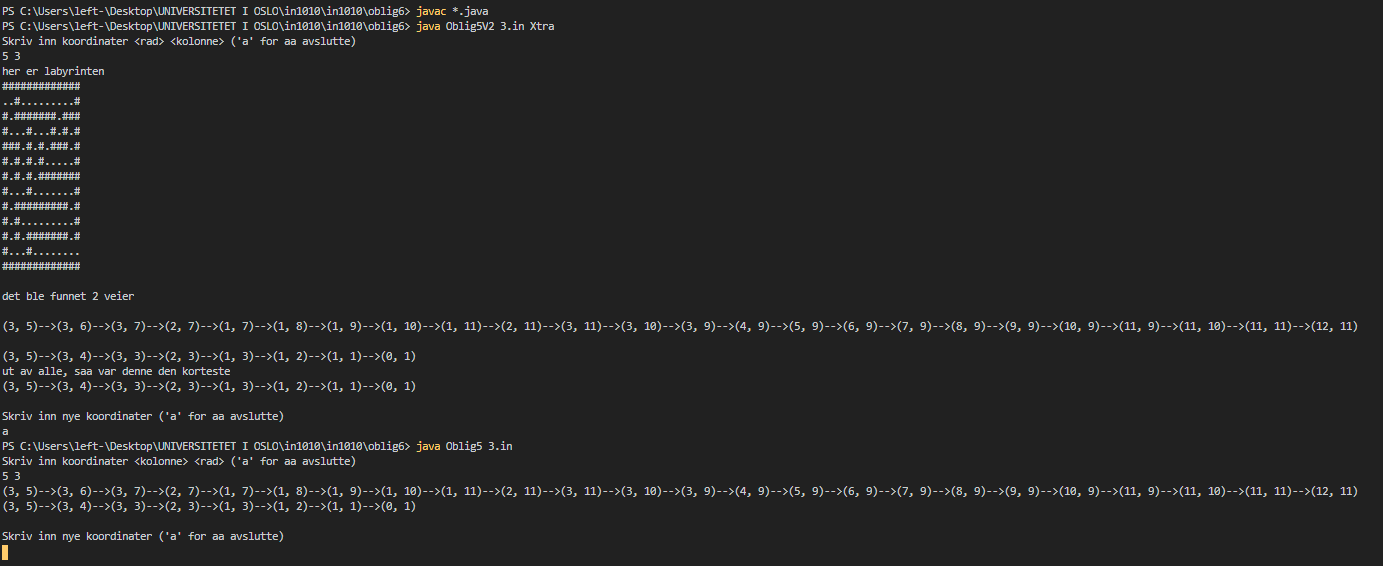
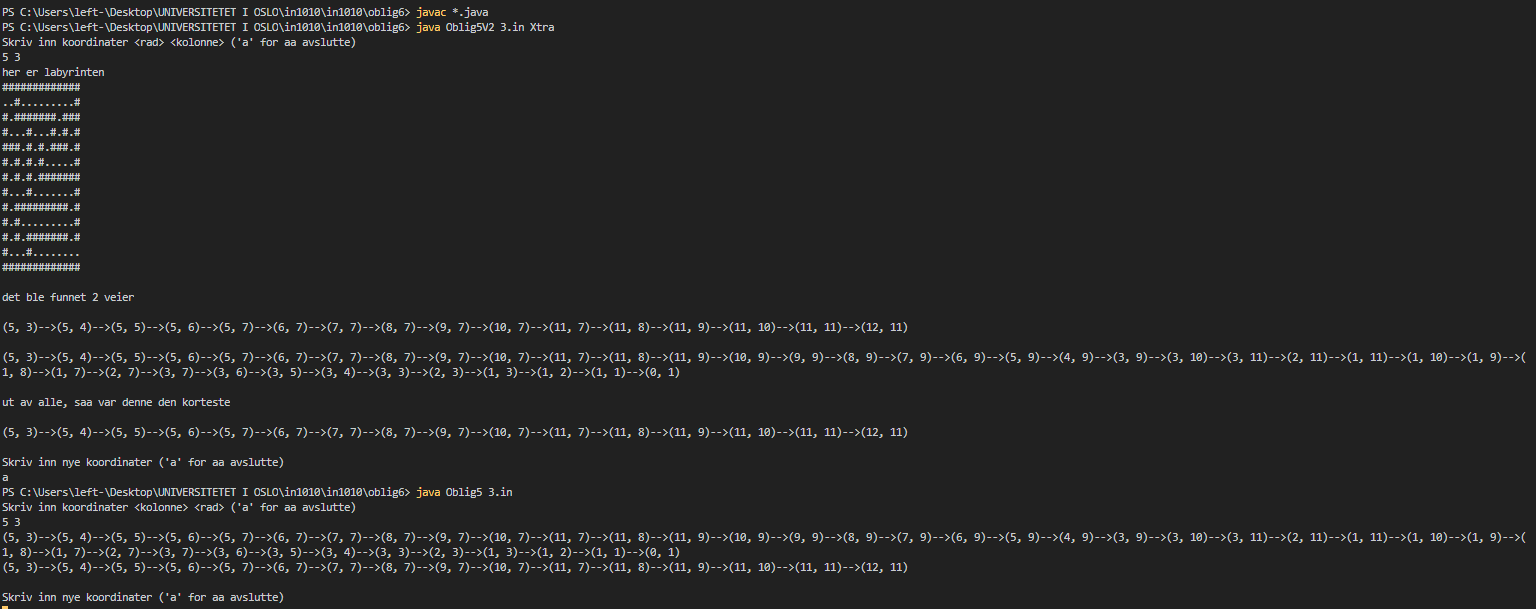
ferdig med oblig5

Changed region(s): [[0.0, 0.0, 0.9949, 0.9912]]

diff --git a/oblig6/Oblig5V2.java b/oblig6/Oblig5V2.java
@@ -67,7 +67,7 @@ class Oblig5V2 {
                         for(String vei : utveier){ //gjennom en for loekke
                             System.out.println("\n" + vei);
                         }
-                        System.out.println("ut av alle, saa var denne den korteste"); //saa vis den korteste
+                        System.out.println("\nut av alle, saa var denne den korteste\n"); //saa vis den korteste
                         System.out.println(minstemuligevei);
                     } else {
                         System.out.println("Ingen utveier.");
